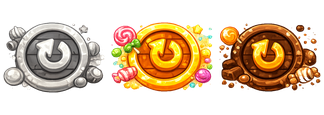
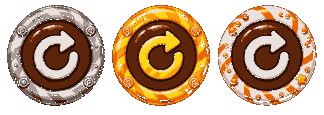
fix(dev1): update completed Candy restart button refinement

diff --git a/Dev1_RuiYan/ICT2_Quality_Evidence/testing/assessment2_completion.md b/Dev1_RuiYan/ICT2_Quality_Evidence/testing/assessment2_completion.md
@@ -36,7 +36,7 @@ Missing documentation links remain follow-up work. They do not change completed 
 ## Section 3 — Candy Pause / Exit refinement
 
 - [Week 6 Activity 3 — Before comparison, report p. 35](../refinement/week6_pause_exit_before.png): Pause and Exit shared the same door-and-arrow icon. The selected concern is semantic distinction and interaction clarity.
-- [Week 6 Test 2 — report p. 36](../refinement/week6_restart_followup.png): Restart's border/decorative styling is a separate concern, explicitly deferred beyond this bounded change.
+- [Week 6 Test 2 — report p. 36](../refinement/week6_restart_followup.png): Restart's border/decorative styling was a separate concern, historically deferred beyond that Pause/Exit change. The later developer-supplied Restart repair is recorded below as completed.
 - [Week 6 Activity 5 — Before/After and retest, report p. 40](../refinement/week6_pause_exit_after_retest.png): the Pause icon is refined; Exit, Restart, Resume, frame geometry, logic, learning activities and overall mechanics are retained. The report records **Retest result: Pass**. Its last sentence continues on the source report's next page.
 
[1 lines of base64/hex data omitted]
@@ -46,12 +46,18 @@ The original oversized ZIP image remains separate as source evidence. The runtim
 ## Section 4 — actual repository coordination and approval
 
 - [Asset and documentation PR #22](https://github.com/Ray-Yan-Rui-14793817/ICT_Group3_Kopo_Game/pull/22) contains only Dev1 changes and preserves per-theme commits.
-- [US5 #23](https://github.com/Ray-Yan-Rui-14793817/ICT_Group3_Kopo_Game/issues/23) and [US6 #24](https://github.com/Ray-Yan-Rui-14793817/ICT_Group3_Kopo_Game/issues/24) record completed games. [Follow-up #25](https://github.com/Ray-Yan-Rui-14793817/ICT_Group3_Kopo_Game/issues/25) records the completed asset merge and separately tracks remaining evidence documentation, source-package questions and deferred Restart styling.
+- [US5 #23](https://github.com/Ray-Yan-Rui-14793817/ICT_Group3_Kopo_Game/issues/23) and [US6 #24](https://github.com/Ray-Yan-Rui-14793817/ICT_Group3_Kopo_Game/issues/24) record completed games. [Follow-up #25](https://github.com/Ray-Yan-Rui-14793817/ICT_Group3_Kopo_Game/issues/25) records the completed asset merge and later Restart repair, and separately tracks remaining evidence documentation and source-package questions.
 - [Existing Project Board](https://github.com/users/Ray-Yan-Rui-14793817/projects/2) uses Todo / In Progress / Done; current release ownership is Rui Yan / Dev1, ICT2 Beta / Assessment 2. Shared project conventions and earlier US4 states are retained.
 - Report p. 44 describes shared Candy UI review as a collaborative practice. This report description is not represented as a submitted approval on PR #22. No submitted GitHub reviews were recorded when merging. The current merge request explicitly confirms that the required KOPO game-design review has passed. Repository rules were checked separately: no formal GitHub approval was required, and no reviewer identity, approval comment or review timestamp is inferred.
 
-Remaining work is limited to consolidating detailed existing test-document links, the formal Resume size rule, standalone tilemap usage and deferred Restart styling, as tracked in #25. The asset PR merge and required game-design review are completed.
+Remaining work is limited to consolidating detailed existing test-document links, the formal Resume size rule and standalone tilemap usage, as tracked in #25. The asset PR merge, required game-design review and subsequent developer-confirmed Restart styling repair are completed.
 
 ## Verified repository integration
 
 [PR #22](https://github.com/Ray-Yan-Rui-14793817/ICT_Group3_Kopo_Game/pull/22) is **Merged**. Merge commit: [`15fe5b29b0c654d2b7e55bbebbfe4b388243e84f`](https://github.com/Ray-Yan-Rui-14793817/ICT_Group3_Kopo_Game/commit/15fe5b29b0c654d2b7e55bbebbfe4b388243e84f). The merged main tree was checked against the reviewed PR head: all intended files match, with no changes to other developer subtrees, ICT1 Alpha or the 15 original Space images. US4, US5 and US6 game completion remains unchanged. Current asset/evidence links use relative main paths; historical commit links remain permanent references.
+
+## Subsequent Candy Restart styling repair — 5 November 2026
+
+**Status: Completed — confirmed by Dev1 Rui Yan.** The user supplied `Candy theme button-test-finial.png`, showing three circular-arrow Restart icons. The repository update replaces [the existing Restart path](../../ICT2_Candy_Theme/Candy_Themes_design/candy_restart_button.png) with the supplied bytes, without changing pixels or runtime logic. Static validation passes: PNG decoding, 324 × 115 dimensions, three nonempty 108 × 115 frame cells, transparency and 7,704 bytes (below 80,000).
+
[1 lines of base64/hex data omitted]

diff --git a/Dev1_RuiYan/ICT2_Quality_Evidence/README.md b/Dev1_RuiYan/ICT2_Quality_Evidence/README.md
@@ -20,7 +20,7 @@ The source report is `CP5047 Assessment 2 Group Implementation and Demonstration
 | Candy Pause active version | `candy_pause_button.png` is 324 × 115, 15,106 bytes, transparent and contains three nonempty 108 × 115 cells. It is byte-identical to the image loaded by Candy (KOPO file ID 232120) | Active version identified; measured specification check Pass |
 | Unsuitable ZIP Pause source | [Historical image](refinement/Candy%20Pause%20Button%20png.png): 1536 × 1024, 2,470,318 bytes | Historical source specification Fail retained; this is not the active game sprite |
 | Candy Pause/Exit meaning | [Before](refinement/week6_pause_exit_before.png), [After and reported retest](refinement/week6_pause_exit_after_retest.png); Group Report Week 6 Activity 5 explicitly records Retest result: Pass | Refinement and reported retest completed; no fabricated execution date or fresh full-suite claim |
-| Candy Restart styling | [Week 6 Test 2](refinement/week6_restart_followup.png) identifies style differences and records later improvement | **Deferred**; no new styling change claimed |
+| Candy Restart styling | [Week 6 Test 2](refinement/week6_restart_followup.png) records the historical concern. Rui Yan subsequently supplied the final repaired sprite; [revision validation](testing/candy_restart_refinement_validation.json) records the replacement and static checks | **Completed — developer confirmed.** Current repository sprite: 324 × 115, 7,704 bytes, transparent, three nonempty frames; no new KOPO runtime retest claimed |
 | Candy Resume size rule | Supplied and currently loaded sprite is 80,640 bytes: above 80,000 but below 81,920 | Formal upload-size requirement to confirm; game completion unchanged |
 | Source tilemaps | Both preserved maps match the ICT1 blob and reference `background.png`; Chinese source package uses a differently named background | Standalone export usage/dependency follow-up; not evidence of an unfinished running game |
 | Space Drop Box | Existing source bytes and original quality concern retained | Earlier variant selection / integration evidence can be consolidated separately |
@@ -29,10 +29,14 @@ The source report is `CP5047 Assessment 2 Group Implementation and Demonstration
 
 ## Tracking and scope
 
-[US5 #23](https://github.com/Ray-Yan-Rui-14793817/ICT_Group3_Kopo_Game/issues/23) and [US6 #24](https://github.com/Ray-Yan-Rui-14793817/ICT_Group3_Kopo_Game/issues/24) describe completed game development/testing. [Follow-up #25](https://github.com/Ray-Yan-Rui-14793817/ICT_Group3_Kopo_Game/issues/25) records the completed PR #22 merge and tracks evidence-document consolidation, source-package questions and deferred Restart styling. These remaining tasks are not requirements to redo the completed games.
+[US5 #23](https://github.com/Ray-Yan-Rui-14793817/ICT_Group3_Kopo_Game/issues/23) and [US6 #24](https://github.com/Ray-Yan-Rui-14793817/ICT_Group3_Kopo_Game/issues/24) describe completed game development/testing. [Follow-up #25](https://github.com/Ray-Yan-Rui-14793817/ICT_Group3_Kopo_Game/issues/25) records the completed PR #22 merge and Restart styling repair, and tracks remaining evidence-document consolidation and source-package questions. These remaining tasks are not requirements to redo the completed games.
 
 The earlier asset-only checkpoint correctly stated that this repository update had not independently executed the three-level runtime test suite. The later developer confirmation and newly inspected report now establish the current completion record. Earlier commits and original static measurements are preserved. No other developer files, Issues, branches or PRs are modified.
 
 ## Main integration checkpoint
 
 [PR #22](https://github.com/Ray-Yan-Rui-14793817/ICT_Group3_Kopo_Game/pull/22) was merged using a merge commit on 5 November 2026. Merge SHA: [`15fe5b29b0c654d2b7e55bbebbfe4b388243e84f`](https://github.com/Ray-Yan-Rui-14793817/ICT_Group3_Kopo_Game/commit/15fe5b29b0c654d2b7e55bbebbfe4b388243e84f). Space Level 2–3, Candy (including the verified active Pause sprite), Chinese Festival and Assessment 2 evidence are present in main. Original Space assets, ICT1 Alpha and all other developer subtrees are unchanged. Design-review completion is the developer's confirmation; GitHub-specific approval requirements were checked separately and none blocked the merge.
+
+## Candy Restart refinement checkpoint — 5 November 2026
+
+Rui Yan supplied `Candy theme button-test-finial.png` and confirmed that the Candy button repair is completed. It is a Restart sprite with three circular-arrow states. Its bytes are uploaded unchanged to the existing [candy_restart_button.png](../ICT2_Candy_Theme/Candy_Themes_design/candy_restart_button.png) integration path. The previous 56,014-byte sprite is retained in [Git history](https://github.com/Ray-Yan-Rui-14793817/ICT_Group3_Kopo_Game/blob/23540277f50bc80b03a8115b8e58c6cf207a6960/Dev1_RuiYan/ICT2_Candy_Theme/Candy_Themes_design/candy_restart_button.png). The final file is 7,704 bytes and passes PNG decoding, 324 × 115 geometry, three nonempty 108 × 115 cells, transparency and the strict 80,000-byte static limit. [The revision record](testing/candy_restart_refinement_validation.json) gives both hashes. Original ZIP validation and Week 6 report screenshots remain unchanged historical evidence. Completed game testing is preserved; no fresh KOPO behaviour test or deployment confirmation is invented.

diff --git a/Dev1_RuiYan/readme.md b/Dev1_RuiYan/readme.md
@@ -17,7 +17,7 @@
 The games are completed development work. Repository asset integration is also completed through [merged PR #22](https://github.com/Ray-Yan-Rui-14793817/ICT_Group3_Kopo_Game/pull/22), merge commit [`15fe5b29b0c654d2b7e55bbebbfe4b388243e84f`](https://github.com/Ray-Yan-Rui-14793817/ICT_Group3_Kopo_Game/commit/15fe5b29b0c654d2b7e55bbebbfe4b388243e84f). Detailed test-document links and remaining packaging/quality follow-up are tracked separately in #25.
 
 - [US5 Candy #23](https://github.com/Ray-Yan-Rui-14793817/ICT_Group3_Kopo_Game/issues/23) and [US6 Chinese Festival #24](https://github.com/Ray-Yan-Rui-14793817/ICT_Group3_Kopo_Game/issues/24) record completed game work.
-- [Repository, evidence and review follow-up #25](https://github.com/Ray-Yan-Rui-14793817/ICT_Group3_Kopo_Game/issues/25) records the completed merge and tracks remaining evidence documentation, packaging questions and deferred Restart styling.
+- [Repository, evidence and review follow-up #25](https://github.com/Ray-Yan-Rui-14793817/ICT_Group3_Kopo_Game/issues/25) records the completed merge and Restart styling repair, and tracks remaining evidence documentation and packaging questions.
 - [Existing Project Board](https://github.com/users/Ray-Yan-Rui-14793817/projects/2) uses Todo / In Progress / Done. Its historic Sprint 1 title and shared field conventions are preserved. The current release is ICT2 Beta / Assessment 2; no unsupported sprint number or new shared milestone is invented.
 
 ## Three completed ordering levels and KOPO links
@@ -40,7 +40,7 @@ Both US5/US6 URLs match the hyperlinks embedded in the supplied Assessment 2 Gro
 | Candy | [9 usable design PNG + source JSON](ICT2_Candy_Theme/Candy_Themes_design/) | [5 PNG](ICT2_Candy_Theme/Candy_Themes_level1/) | [5 PNG](ICT2_Candy_Theme/Candy_Themes_level2/) | [5 PNG](ICT2_Candy_Theme/Candy_Themes_level3/) |
 | Chinese Festival | [14 source PNG + source JSON](ICT2_Chinese_Festival_Theme/Chinese_Themes_design/) | [5 PNG](ICT2_Chinese_Festival_Theme/Chinese_Themes_level1/) | [5 PNG](ICT2_Chinese_Festival_Theme/Chinese_Themes_level2/) | [5 PNG](ICT2_Chinese_Festival_Theme/Chinese_Themes_level3/) |
 
-The original ZIP's 78 PNGs and 2 JSON files were inspected; all 15 previously merged Space images match by Git blob SHA-1 and remain unchanged. See the [original ZIP manifest](ICT2_Quality_Evidence/testing/asset_manifest.json) and [original static checks](ICT2_Quality_Evidence/testing/asset_validation.json). Source filenames and bytes are preserved, including `灯笼.png` and the two separately stored `orderingGameTilemap (2).json` files.
+The original ZIP's 78 PNGs and 2 JSON files were inspected; all 15 previously merged Space images match by Git blob SHA-1 and remain unchanged. See the [original ZIP manifest](ICT2_Quality_Evidence/testing/asset_manifest.json) and [original static checks](ICT2_Quality_Evidence/testing/asset_validation.json). The ZIP manifest and static checks remain historical snapshots. The current Restart sprite is a later developer-supplied replacement, documented separately; its previous bytes remain in Git history. Other source filenames and bytes are preserved, including `灯笼.png` and the two separately stored `orderingGameTilemap (2).json` files.
 
 ### Confirmed active Candy Pause sprite
 
@@ -54,7 +54,7 @@ The [current Assessment 2 evidence record](ICT2_Quality_Evidence/testing/assessm
 
 - US5/US6 testing is **Completed — developer confirmed**. Detailed dates, pass counts, per-case execution logs and independent acceptance are not invented where absent from the inspected evidence.
 - Week 6 Activity 3 identifies duplicate Pause/Exit meaning; Activity 5 records a distinct Pause icon and **Retest result: Pass**. This is the report's recorded result, not a fresh full-suite execution by the repository update.
-- Restart styling is a separate **Deferred** follow-up. Candy Resume's formal size rule and standalone tilemap packaging are tracked in #25; these do not imply unfinished game implementation.
+- **Candy Restart styling repair: Completed — confirmed by Dev1 Rui Yan.** The supplied final sprite replaces [candy_restart_button.png](ICT2_Candy_Theme/Candy_Themes_design/candy_restart_button.png): 324 × 115, 7,704 bytes, three nonempty 108 × 115 cells and transparency. [Revision validation](ICT2_Quality_Evidence/testing/candy_restart_refinement_validation.json) records the source-to-repository mapping and previous/current hashes. No new revision-specific KOPO retest is claimed by this upload. Candy Resume's formal size rule and standalone tilemap packaging remain in #25.
 - The required KOPO game-design review has passed, as confirmed by Dev1 Rui Yan. At merge, main was unprotected, no active repository rulesets or required checks were present, and no formal GitHub PR approval was required. Zero submitted GitHub reviews were recorded; no approval is fabricated.
 
 ## Repository and Sprint history
